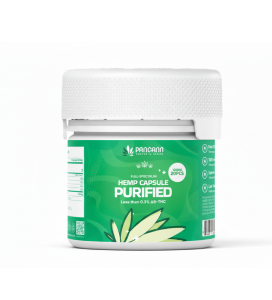
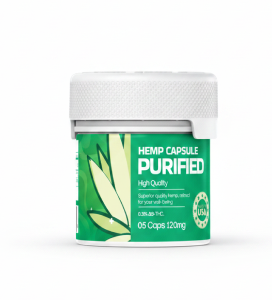
Implement product variants and weight tags for Purified Hemp Capsule page

Changed region(s): [[0.2059, 0.24, 0.7941, 0.84], [0.3824, 0.21, 0.8235, 0.39]]

diff --git a/cbd-hemp-capsule-purified-120mg.html b/cbd-hemp-capsule-purified-120mg.html
@@ -286,11 +286,11 @@
       <div class="row justify-content-between align-items-center">
         <div class="col-auto">
           <div class="breadcumb-content">
-            <h1 class="breadcumb-title">CBD Hemp Capsule Purified 120mg</h1>
+            <h1 class="breadcumb-title" id="variant-bread-title">CBD Hemp Capsule Purified 120mg 05g</h1>
             <div class="breadcumb-menu-wrap">
               <ul class="breadcumb-menu">
                 <li><a href="index.html">Home</a></li>
-                <li>CBD Hemp Capsule Purified 120mg</li>
+                <li id="variant-bread-item">CBD Hemp Capsule Purified 120mg 05g</li>
               </ul>
             </div>
           </div>
@@ -306,19 +306,19 @@
         <div class="col-lg-6 mb-30">
           <div class="product-slide-row">
             <div class="product-big-img vs-carousel" data-slide-show="1" data-fade="true" data-asnavfor=".product-thumb-slide">
-              <div class="img"><img src="assets/img/products/hemp-capsule-purified-120mg-large-01.png" alt="Product Image"></div>
-              <div class="img"><img src="assets/img/products/hemp-capsule-purified-120mg-large-02.png" alt="Product Image"></div>
-              <div class="img"><img src="assets/img/products/hemp-capsule-purified-120mg-large-03.png" alt="Product Image"></div>
+              <div class="img"><img src="assets/img/products/hemp-capsule-purified-120mg-05-large.png" alt="Product Image"></div>
+              <div class="img"><img src="assets/img/products/hemp-capsule-purified-120mg-10-large.png" alt="Product Image"></div>
+              <div class="img"><img src="assets/img/products/hemp-capsule-purified-120mg-20-large.png" alt="Product Image"></div>
             </div>
             <div class="product-thumb-slide vs-carousel" data-slide-show="4" data-md-slide-show="4" data-sm-slide-show="3" data-xs-slide-show="3" data-asnavfor=".product-big-img" data-vertical="false" data-sm-vertical="false">
               <div>
-                <div class="thumb"><img src="assets/img/products/hemp-capsule-purified-120mg-large-01.png" alt="Product Image"></div>
+                <div class="thumb variant-thumb" data-variant="05g"><img src="assets/img/products/hemp-capsule-purified-120mg-05-large.png" alt="Product Image"><span class="variant-tag">05g</span></div>
               </div>
               <div>
-                <div class="thumb"><img src="assets/img/products/hemp-capsule-purified-120mg-large-02.png" alt="Product Image"></div>
+                <div class="thumb variant-thumb" data-variant="10g"><img src="assets/img/products/hemp-capsule-purified-120mg-10-large.png" alt="Product Image"><span class="variant-tag">10g</span></div>
               </div>
               <div>
-                <div class="thumb"><img src="assets/img/products/hemp-capsule-purified-120mg-large-03.png" alt="Product Image"></div>
+                <div class="thumb variant-thumb" data-variant="20g"><img src="assets/img/products/hemp-capsule-purified-120mg-20-large.png" alt="Product Image"><span class="variant-tag">20g</span></div>
               </div>
             </div>
           </div>
@@ -332,10 +332,10 @@
               </div>
               <span class="product-rating__total">(1 Review )</span>
             </div>
-            <h2 class="product-title">CBD Hemp Capsule Purified 120mg</h2>
+            <h2 class="product-title" id="variant-product-title">CBD Hemp Capsule Purified 120mg 05g</h2>
 
-            <span class="product-ml">Full-Spectrum / 30PCS</span>
-            <p class="product-price">$39.00</p>
+            <span class="product-ml" id="variant-product-category">Full-Spectrum / 05g</span>
+            <p class="product-price" id="variant-product-price">$105.00</p>
             <div class="actions">
               <div class="quantity">
                 <label for="quantity" class="screen-reader-text">Quantity:</label>
@@ -390,7 +390,7 @@
     <div class="container">
       <div class="product-description mb-50">
         <h3 class="blog-inner-title">Description</h3>
-        <p>Unlock the pure essence of wellness with our CBD Hemp Capsule Purified 120mg. Meticulously processed to provide a high-potency, full-spectrum experience, these capsules are designed for those seeking a convenient and precise way to incorporate premium CBD into their daily routine. Each capsule contains a balanced blend of cannabinoids and hemp-derived compounds to support your overall health and balance. Perfect for on-the-go support, our purified capsules ensure you get the same high quality with every serving. Experience the PANCANN difference with our most potent capsule formula yet.</p>
+        <p id="variant-product-description">Unlock the pure essence of wellness with our CBD Hemp Capsule Purified 120mg. Meticulously processed to provide a high-potency, full-spectrum experience, these 05g capsules are designed for those seeking a convenient and precise way to incorporate premium CBD into their daily routine. Each capsule contains a balanced blend of cannabinoids and hemp-derived compounds to support your overall health and balance. Perfect for on-the-go support, our purified capsules ensure you get the same high quality with every serving. Experience the PANCANN difference with our most potent capsule formula yet.</p>
       </div>
       <div>
         <div class="row gx-50">
@@ -437,7 +437,7 @@
           </div>
           <div class="product-information__item">
             <span class="product-information__name">Serving Size</span>
-            <span>1 Capsule (30PCS per bottle)</span>
+            <span id="variant-serving-size">1 Capsule (05g per bottle)</span>
           </div>
         </div>
       </div>
@@ -984,9 +984,77 @@
     </div>
   </div>
   <script src="assets/js/footer-popups.js"></script>
+  <style>
+    .variant-thumb {
+      position: relative;
+      cursor: pointer;
+    }
+    .variant-tag {
+      position: absolute;
+      top: 5px;
+      right: 5px;
+      background: #47b32d;
+      color: white;
+      font-size: 10px;
+      padding: 2px 6px;
+      border-radius: 4px;
+      font-weight: bold;
+      z-index: 10;
+    }
+  </style>
+  <script>
+    document.addEventListener('DOMContentLoaded', function() {
+      const variantData = {
+        '05g': {
+          price: '$105.00',
+          title: 'CBD Hemp Capsule Purified 120mg 05g',
+          category: 'Full-Spectrum / 05g',
+          description: 'Unlock the pure essence of wellness with our CBD Hemp Capsule Purified 120mg. Meticulously processed to provide a high-potency, full-spectrum experience, these 05g capsules are designed for those seeking a convenient and precise way to incorporate premium CBD into their daily routine. Each capsule contains a balanced blend of cannabinoids and hemp-derived compounds to support your overall health and balance. Perfect for on-the-go support, our purified capsules ensure you get the same high quality with every serving. Experience the PANCANN difference with our most potent capsule formula yet.',
+          serving: '1 Capsule (05g per bottle)'
+        },
+        '10g': {
+          price: '$200.00',
+          title: 'CBD Hemp Capsule Purified 120mg 10g',
+          category: 'Full-Spectrum / 10g',
+          description: 'Elevate your daily wellness with our CBD Hemp Capsule Purified 120mg in the 10g format. Each capsule contains a balanced blend of cannabinoids and hemp-derived compounds to support your overall health and balance. Perfect for on-the-go support, our purified capsules ensure you get the same high quality with every serving.',
+          serving: '1 Capsule (10g per bottle)'
+        },
+        '20g': {
+          price: '$390.00',
+          title: 'CBD Hemp Capsule Purified 120mg 20g',
+          category: 'Full-Spectrum / 20g',
+          description: 'Our 20g Purified Hemp Capsules offer the ultimate convenience for long-term wellness management. High-potency, full-spectrum capsules designed for precise daily support, rigorously lab tested to ensure the pure essence of wellness in every serving. The PANCANN difference in a value-packed 20g size.',
+          serving: '1 Capsule (20g per bottle)'
+        }
+      };
+
+      const thumbs = document.querySelectorAll('.variant-thumb');
+      const breadTitle = document.getElementById('variant-bread-title');
+      const breadItem = document.getElementById('variant-bread-item');
+      const productTitle = document.getElementById('variant-product-title');
+      const productCategory = document.getElementById('variant-product-category');
+      const productPrice = document.getElementById('variant-product-price');
+      const productDesc = document.getElementById('variant-product-description');
+      const servingSize = document.getElementById('variant-serving-size');
+
+      thumbs.forEach(thumb => {
+        thumb.addEventListener('click', function() {
+          const variant = this.getAttribute('data-variant');
+          const data = variantData[variant];
+
+          if (data) {
+            if (breadTitle) breadTitle.innerText = data.title;
+            if (breadItem) breadItem.innerText = data.title;
+            if (productTitle) productTitle.innerText = data.title;
+            if (productCategory) productCategory.innerText = data.category;
+            if (productPrice) productPrice.innerText = data.price;
+            if (productDesc) productDesc.innerText = data.description;
+            if (servingSize) servingSize.innerText = data.serving;
+          }
+        });
+      });
+    });
+  </script>
 </body>
 
 </html>
-
-
-

diff --git a/index.html b/index.html
@@ -557,8 +557,8 @@
               <div class="star-rating" role="img" aria-label="Rated 5 out of 5">
                 <span style="width:100%">Rated <strong class="rating">5</strong> out of 5</span>
               </div>
-              <span class="product-cate">Full-Spectrum / 30PCS</span>
-              <span class="product-price">$39.00</span>
+              <span class="product-cate">Full-Spectrum / 05PCS</span>
+              <span class="product-price">$105.00</span>
               <div class="product-actions2">
                 <a href="contact.html" class="vs-btn style1" tabindex="0"> <i class="fas fa-shopping-basket"></i>
                   Order Now
